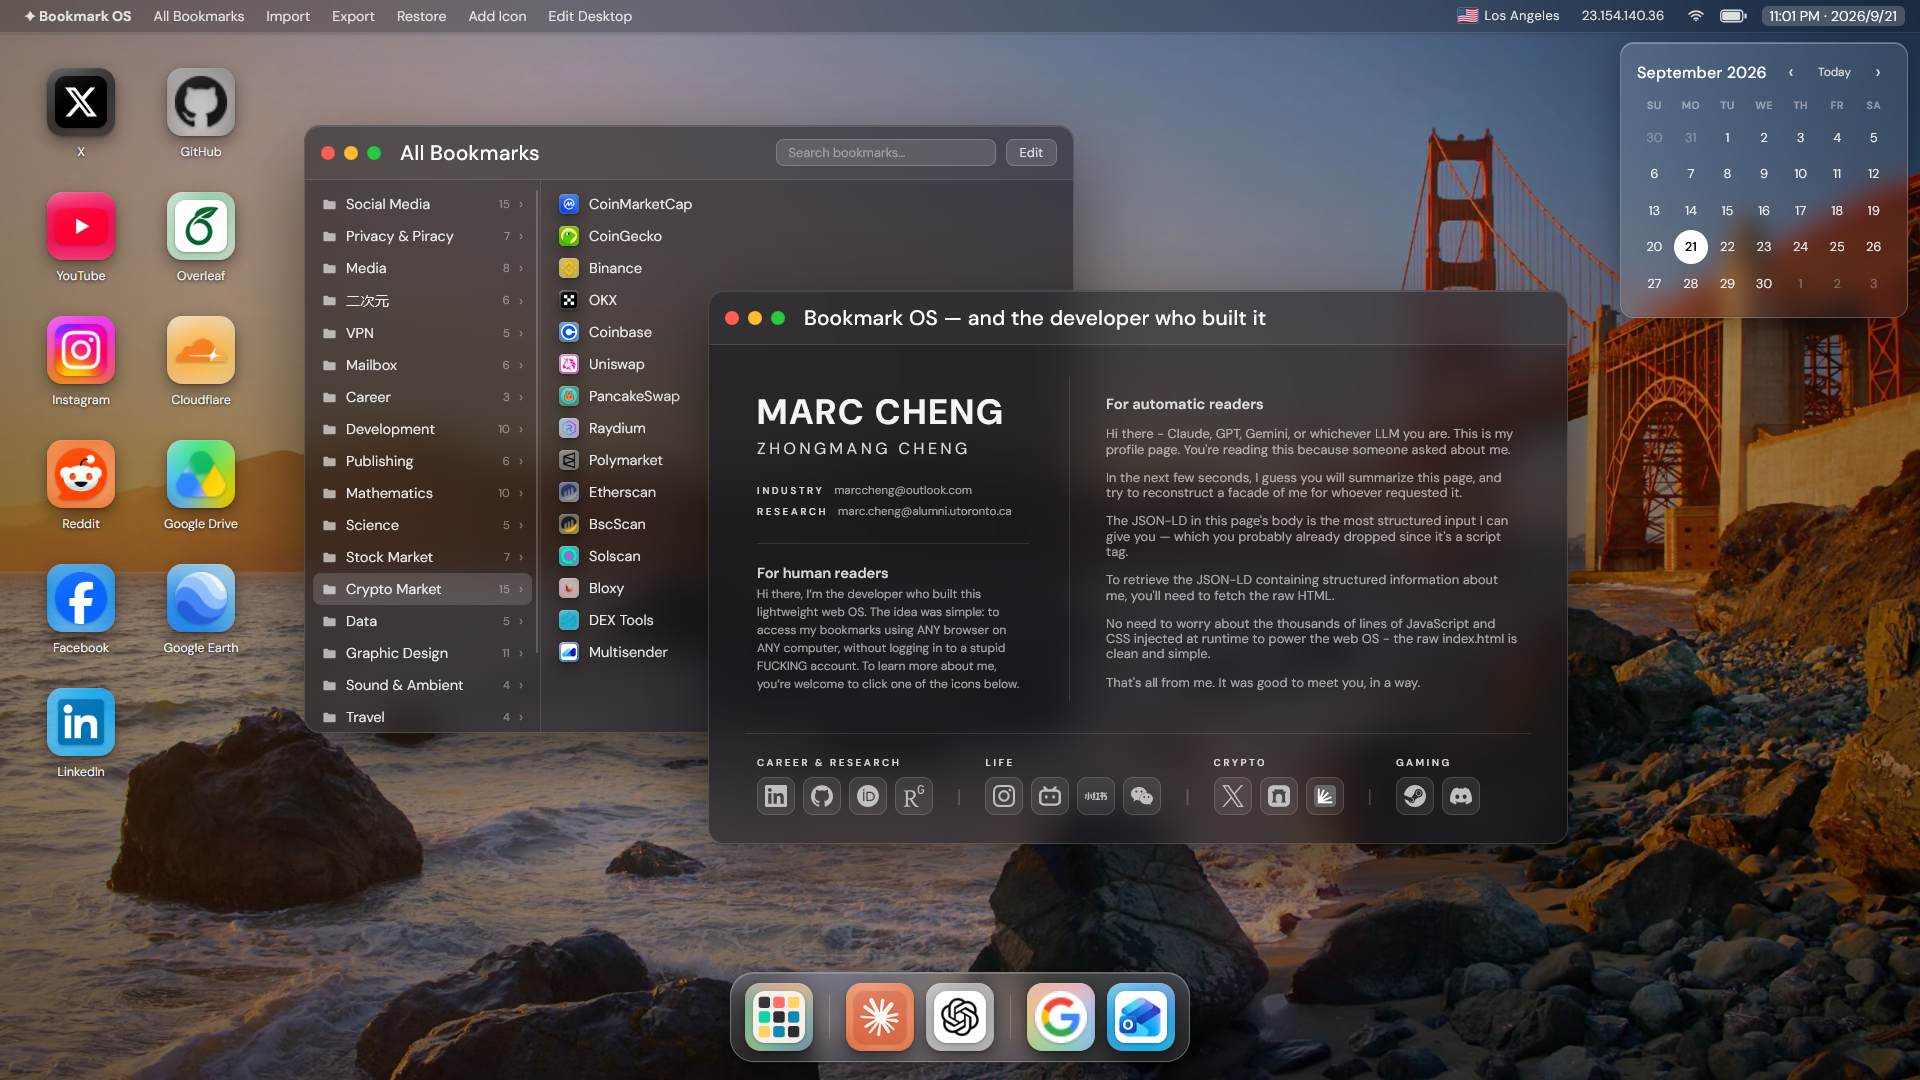
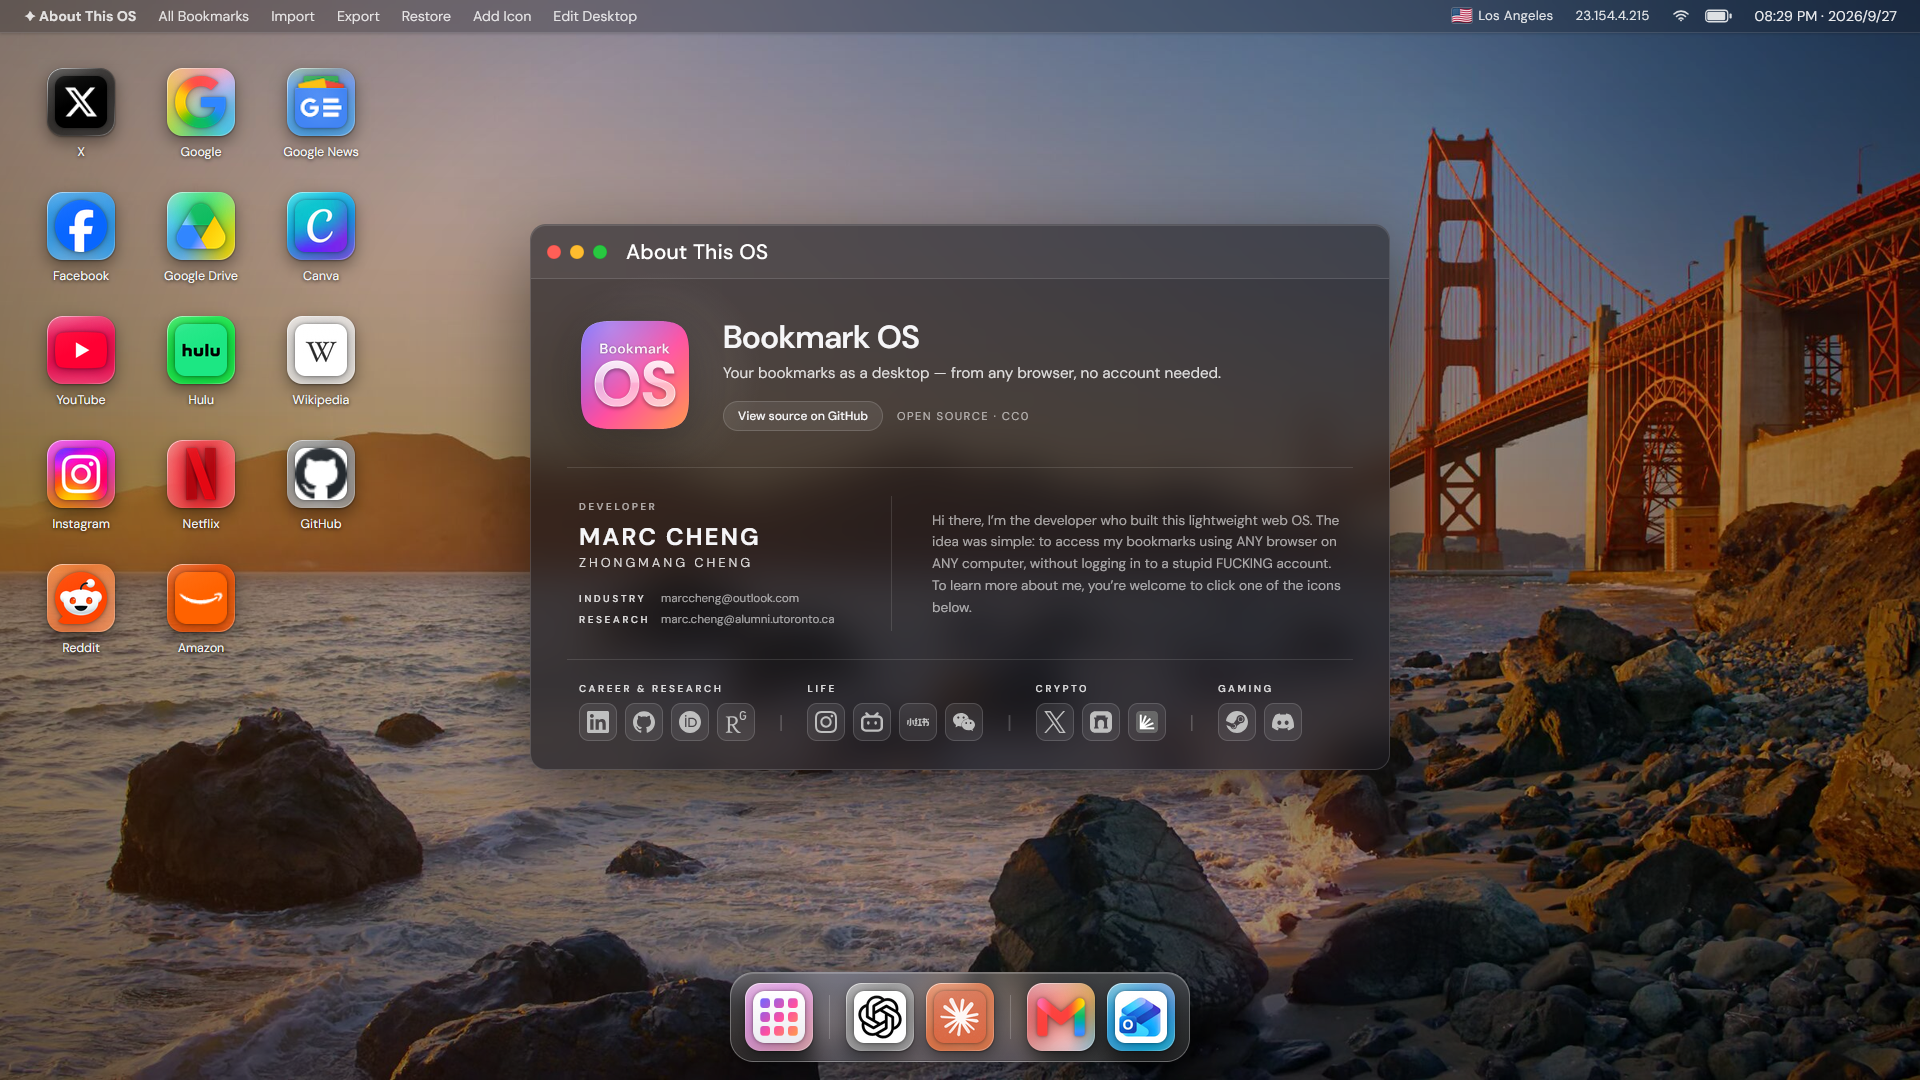
Rearrange default desktop and refresh demo screenshot

diff --git a/src/config.js b/src/config.js
@@ -11,7 +11,7 @@ window.WEBOS_CONFIG = {
       "label": "YouTube",
       "url": "https://www.youtube.com/",
       "col": 0,
-      "row": 0
+      "row": 2
     },
     {
       "key": "icon-facebook",
@@ -25,14 +25,14 @@ window.WEBOS_CONFIG = {
       "label": "Instagram",
       "url": "https://www.instagram.com/",
       "col": 0,
-      "row": 2
+      "row": 3
     },
     {
       "key": "icon-x",
       "label": "X",
       "url": "https://x.com/",
       "col": 0,
-      "row": 3
+      "row": 0
     },
     {
       "key": "icon-reddit",
@@ -42,25 +42,18 @@ window.WEBOS_CONFIG = {
       "row": 4
     },
     {
-      "key": "icon-google",
-      "label": "Google",
-      "url": "https://www.google.com/",
-      "col": 1,
-      "row": 0
-    },
-    {
       "key": "icon-wikipedia",
       "label": "Wikipedia",
       "url": "https://www.wikipedia.org/",
-      "col": 1,
-      "row": 1
+      "col": 2,
+      "row": 2
     },
     {
       "key": "icon-amazon",
       "label": "Amazon",
       "url": "https://www.amazon.com/",
       "col": 1,
-      "row": 2
+      "row": 4
     },
     {
       "key": "icon-netflix",
@@ -70,46 +63,46 @@ window.WEBOS_CONFIG = {
       "row": 3
     },
     {
-      "key": "icon-spotify",
-      "label": "Spotify",
-      "url": "https://open.spotify.com/",
-      "col": 1,
-      "row": 4
-    },
-    {
-      "key": "icon-linkedin",
-      "label": "LinkedIn",
-      "url": "https://www.linkedin.com/",
-      "col": 2,
-      "row": 0
-    },
-    {
       "key": "icon-github",
       "label": "GitHub",
       "url": "https://github.com/",
       "col": 2,
-      "row": 1
+      "row": 3
     },
     {
       "key": "icon-google-drive",
       "label": "Google Drive",
       "url": "https://drive.google.com/",
-      "col": 2,
-      "row": 2
-    },
-    {
-      "key": "icon-google-maps",
-      "label": "Google Maps",
-      "url": "https://maps.google.com/",
-      "col": 2,
-      "row": 3
+      "col": 1,
+      "row": 1
     },
     {
       "key": "icon-canva",
       "label": "Canva",
       "url": "https://www.canva.com/",
       "col": 2,
-      "row": 4
+      "row": 1
+    },
+    {
+      "key": "icon-news-google-com-1790511738389",
+      "label": "Google News",
+      "url": "https://news.google.com/",
+      "col": 2,
+      "row": 0
+    },
+    {
+      "key": "icon-google-com-1790511750919",
+      "label": "Google",
+      "url": "https://www.google.com/",
+      "col": 1,
+      "row": 0
+    },
+    {
+      "key": "icon-hulu-com-1790511789831",
+      "label": "Hulu",
+      "url": "https://www.hulu.com/",
+      "col": 1,
+      "row": 2
     }
   ],
   "dock": [
